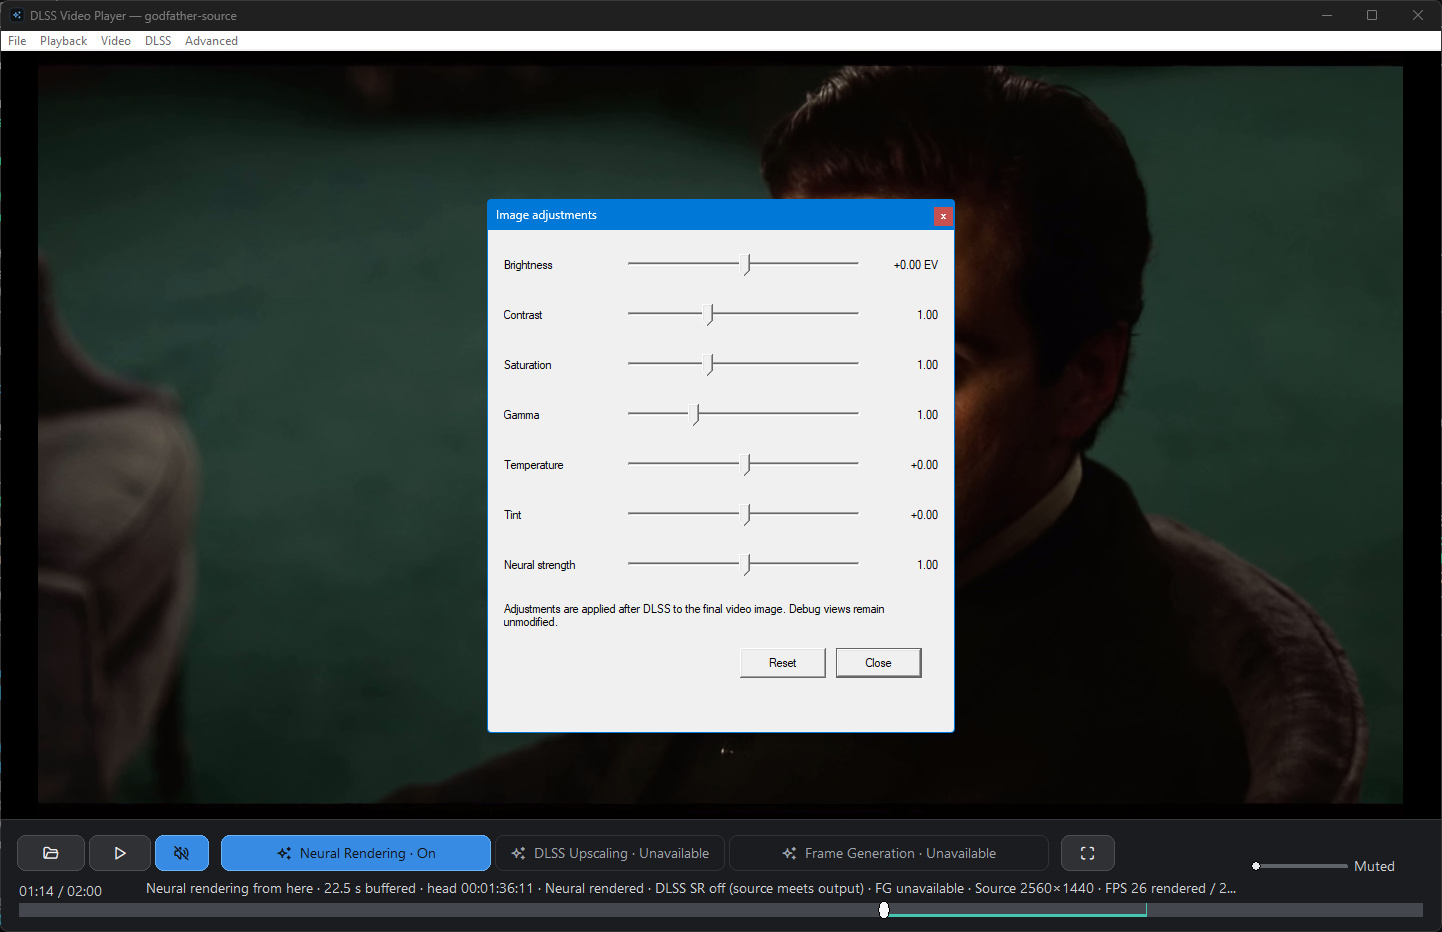
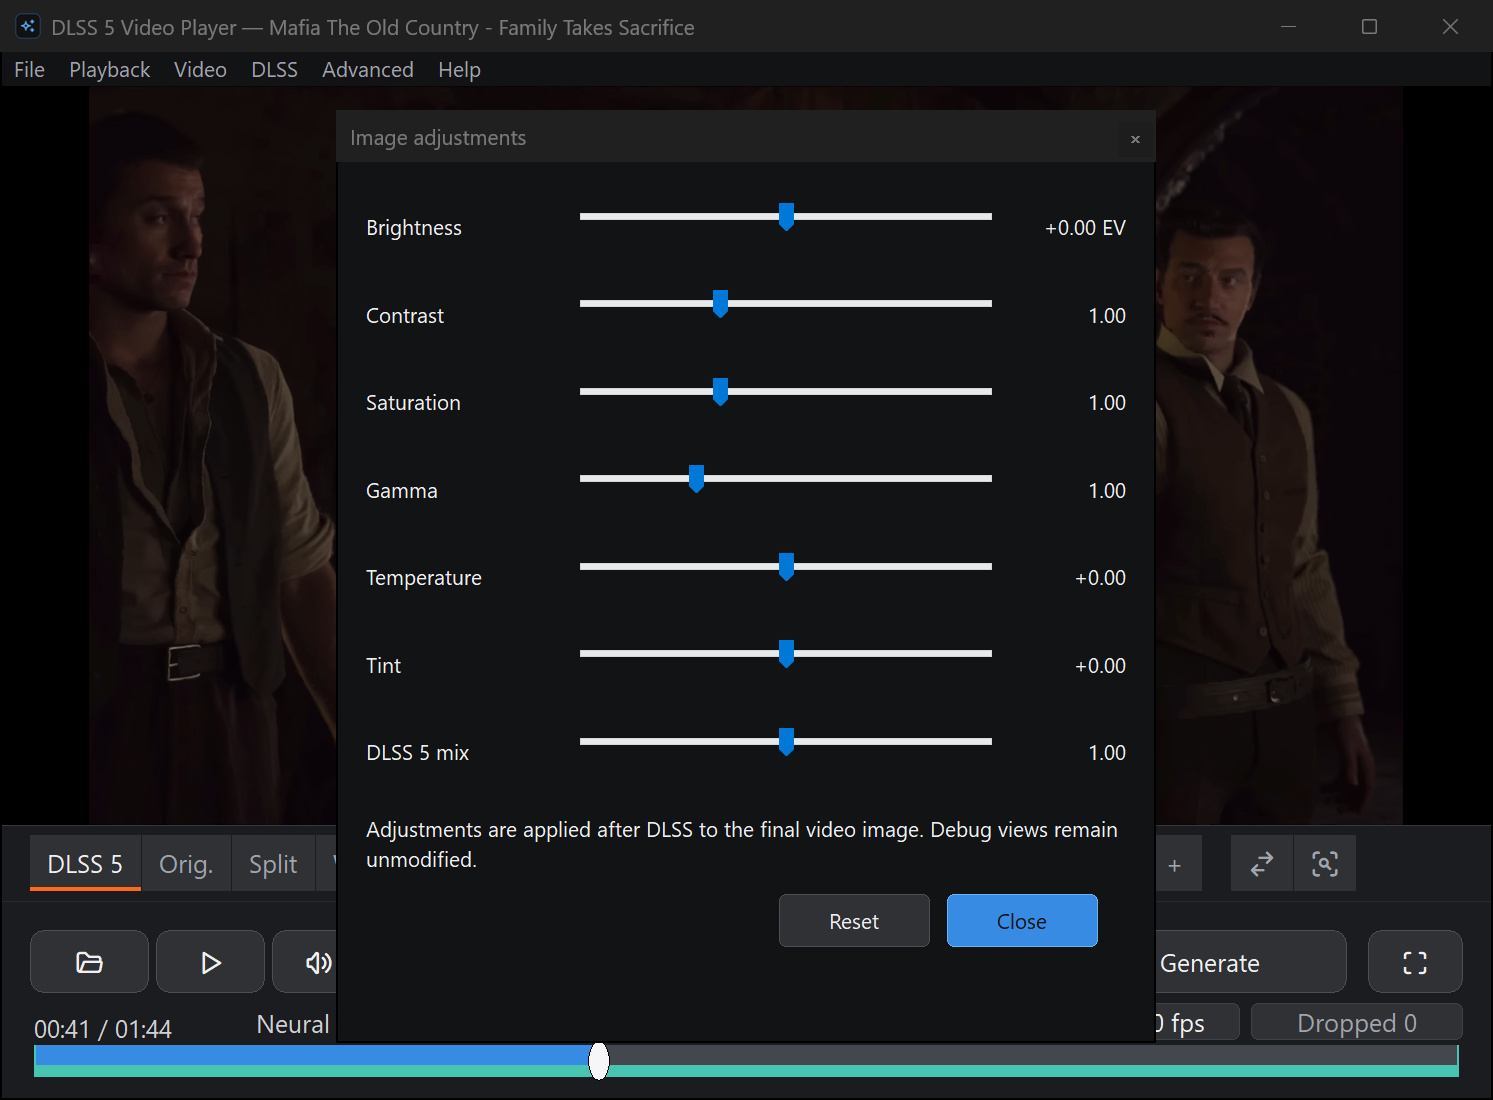
docs: re-shoot the menu, mix and start screenshots; name the product DLSS 5
The last P1.23 items. recent-videos.jpg and neural-strength.jpg showed the
v0.13/v0.21 UI (Upcoming games, Export cached video, a light dialog, Neural
strength); they are re-shot on the current UI over a paused neural frame of
the Mafia trailer, with provenance in docs/screenshots/README.md (window
captures by handle, popups placed at their real offset, 1493 px wide: the
minimum at 175%). player-start.jpg is re-shot too, since the start screen
changed. The version resource's FileDescription and ProductName become
"DLSS 5 Video Player", with both packaging checks; release notes and
PRODUCT.md point at ARCHITECTURE.md's measurements, not the changelog.

Verified: rebuilt exe reports ProductName "DLSS 5 Video Player";
package_release.ps1 -PublicCore built and verified the core zip (23 files,
stage and zip) in a scratch copy under C:\t\w3-ui\pkg; site/test.ps1 39/39
Closes P1.23 (docs/IMPROVEMENT-TASKS.md)

diff --git a/site/src/index.html b/site/src/index.html
@@ -380,9 +380,9 @@
       </p>
     </div>
     <figure class="beat__figure">
-      <img src="media/neural-strength.jpg" width="1442" height="932" loading="lazy" decoding="async"
-           alt="The image adjustments window open over a frame, showing the Neural strength dial.">
-      <figcaption>Neural strength, at its 1.00 default<span class="beat__tick">image adjustments over a paused frame · captured on v0.21.0</span></figcaption>
+      <img src="media/neural-strength.jpg" width="1493" height="1100" loading="lazy" decoding="async"
+           alt="The image adjustments window open over a paused neural frame, showing the DLSS 5 mix slider.">
+      <figcaption>DLSS 5 mix, at its 1.00 default<span class="beat__tick">image adjustments over a paused frame · captured 24 September 2026</span></figcaption>
     </figure>
   </article>
 
@@ -397,9 +397,9 @@
       </p>
     </div>
     <figure class="beat__figure">
-      <img src="media/recent-videos.jpg" width="1442" height="932" loading="lazy" decoding="async"
-           alt="The File menu open on Recent videos, with Export cached video beneath it.">
-      <figcaption>Recent videos reopens a film with its render already attached<span class="beat__tick">File menu · captured 3 September 2026 · history submenu closed, no local paths in frame</span></figcaption>
+      <img src="media/recent-videos.jpg" width="1493" height="932" loading="lazy" decoding="async"
+           alt="The File menu open, with Game trailers, Recent videos and Save comparison image, over a paused neural frame.">
+      <figcaption>Recent videos reopens a film with its render already attached<span class="beat__tick">File menu · captured 24 September 2026 · history submenu closed, no local paths in frame</span></figcaption>
     </figure>
   </article>
 </section>

diff --git a/docs/screenshots/README.md b/docs/screenshots/README.md
@@ -13,9 +13,9 @@ for images that have since been replaced are in the git history of this file.
 | `current/gta6-lucia-original.jpg`, `gta6-lucia-neural.jpg` | That GTA VI frame, whole (2560x1440). The site hero and link card are cut from these | 22 Sep 2026, v0.25.0 |
 | `current/matrix-neural.jpg`, `matrix-original.jpg` | The player paused on Trinity at 1:28, neural view on, then off | 22 Sep 2026, v0.25.0 |
 | `current/neural-playback.jpg`, `original-comparison.jpg` | The player paused on GTA VI at 1:04, neural view on, then off | 22 Sep 2026, v0.25.0 |
-| `current/neural-strength.jpg` | The image adjustments window with the Neural strength dial at 1.00, over a paused Godfather frame | 12 Sep 2026, v0.21.0 |
-| `current/recent-videos.jpg` | The File menu with Recent videos. The history submenu is closed, which keeps local paths out of frame | 3 Sep 2026, v0.13.0 |
-| `current/player-start.jpg` | The start screen | 3 Sep 2026, v0.13.0 |
+| `current/neural-strength.jpg` | The image adjustments window with the DLSS 5 mix slider at 1.00, over a paused neural frame of the Mafia: The Old Country trailer | 24 Sep 2026, v0.25.0+ |
+| `current/recent-videos.jpg` | The File menu (Game trailers, Recent videos, Save comparison image) over the same trailer, paused on a neural frame with the compare bar. The history submenu is closed, which keeps local paths out of frame | 24 Sep 2026, v0.25.0+ |
+| `current/player-start.jpg` | The start screen on a fresh profile: the capability check and the game trailers | 24 Sep 2026, v0.25.0+ |
 | `2026-09-03/face-comparison.png` | The Witcher IV, frame 3375, source beside render. Kept because the 2 September verification report shows it | 3 Sep 2026, v0.13.0 |
 
 ## 22 September 2026 images
@@ -74,17 +74,45 @@ differs by a mean of 9.5 levels and the Matrix pair by 5.2. A wipe taken in the
 same session matched the original left of its divider (0.16) and the render to
 the right (0.0).
 
+## 24 September 2026 images
+
+**Hardware and runtime.** The 22 September machine and runtime (RTX 4080
+SUPER, driver 610.47, RenoDX 6.5.3, DLSS-NR 310.8.0), at 175% display scaling.
+The build is the w3-ui branch after v0.25.0: Common Controls 6, dark popup
+menus, the compare bar and the start screen as they ship next.
+
+**Source.** *Mafia: The Old Country - Family Takes Sacrifice* (Mafia Game), the
+official upload in the player's trailer list, 2560x1440 at 30 fps, opened as a
+local copy of the player's cached source. Neural rendering was turned on at
+0:00, the video played and was paused at 0:21 (the menu) and 0:41 (the
+adjustments window), both inside the rendered range with the neural view on.
+Default neural settings.
+
+**Captures.** Every window was captured by handle with `PrintWindow` and cut to
+its visible frame (DWM's extended frame bounds), as
+`tools/verification/capture-window.ps1` does, because the workstation was
+locked and the screen itself could not be read. A popup is its own window, so
+`recent-videos.jpg` and `neural-strength.jpg` are each two such captures - the
+player, and the open File menu or the adjustments window - with the second
+placed at its real on-screen offset from the first. Nothing else is added or
+changed. Saved once as JPEG at quality 95 with no chroma subsampling.
+
+**Size.** 1493x932 (`recent-videos.jpg`, `player-start.jpg`) and 1493x1100
+(`neural-strength.jpg`). The older shots were 1442x932 at 100%; at 175% the
+player's minimum width is 1493 visible pixels, and the adjustments window
+(933 pixels tall at that scale) needed a taller player to sit over.
+
 ## Earlier images
 
-**12 September 2026** (`neural-strength.jpg`). v0.21.0 on an RTX 5090, driver
-616.64, RenoDX 4.7. The frame is *The Godfather 50th Anniversary Trailer*
-(Paramount Pictures) paused at 73.98 s, from a live session that verified
-2,875 of 2,875 frames. The window's visible frame (1442x932), JPEG quality 95,
-no chroma subsampling.
+**12 September 2026** (the previous `neural-strength.jpg`, in this file's
+history). v0.21.0 on an RTX 5090, driver 616.64, RenoDX 4.7. The frame is
+*The Godfather 50th Anniversary Trailer* (Paramount Pictures) paused at
+73.98 s, from a live session that verified 2,875 of 2,875 frames. The window's
+visible frame (1442x932), JPEG quality 95, no chroma subsampling.
 
-**3 September 2026** (`recent-videos.jpg`, `player-start.jpg`,
-`2026-09-03/face-comparison.png`). v0.13.0 on an RTX 5090, full 1442x932
-windows captured with FFmpeg. The face comparison uses *The Witcher IV* Cinematic
+**3 September 2026** (`2026-09-03/face-comparison.png`, and the previous
+`recent-videos.jpg` and `player-start.jpg`). v0.13.0 on an RTX 5090, full
+1442x932 windows captured with FFmpeg. The face comparison uses *The Witcher IV* Cinematic
 Reveal Trailer (CD PROJEKT RED), 1920x1080 at 30000/1001 fps, zero-based frame
 3375 (112.6 s). Both 700x880 crops are at x=670, y=0 from the source and its
 fully verified render (10,868 of 10,868 frames).
@@ -94,6 +122,6 @@ fully verified render (10,868 of 10,868 frames).
 These images document the software. They are not an image-quality benchmark,
 an official NVIDIA integration, or an endorsement by anyone shown. Footage
 belongs to its owners: The Matrix to Warner Bros., Grand Theft Auto VI to
-Rockstar Games, The Godfather to Paramount Pictures and The Witcher IV to CD
-PROJEKT RED. NVIDIA components belong to NVIDIA. The source-code licence
+Rockstar Games, The Godfather to Paramount Pictures, The Witcher IV to CD
+PROJEKT RED and Mafia: The Old Country to 2K and Hangar 13. NVIDIA components belong to NVIDIA. The source-code licence
 doesn't relicense any of it.

diff --git a/docs/IMPROVEMENT-TASKS.md b/docs/IMPROVEMENT-TASKS.md
@@ -53,7 +53,6 @@ fetchable), 175 s. `site/test.ps1`: 31 pass.
 | --- | --- | :---: | --- | :---: |
 | **P0** | | | | |
 | **P1** | | | | |
-| [P1.23](#p123) | Screenshots and the last product-name drift | S | Docs, Release | 🔍 |
 | **P2** | | | | |
 | [P2.1](#p21) | Supply a smoothed exposure instead of auto-exposure | S | Pipeline | ✅ |
 | [P2.2](#p22) | Dither wherever the image is cut to 8 bits | S | Pipeline, Player | ✅ |
@@ -88,45 +87,6 @@ fetchable), 175 s. `site/test.ps1`: 31 pass.
 
 ## Docs and site
 
-<a id="p123"></a>
-### P1.23 · Screenshots and the last product-name drift
-
-`S` · **Docs, Release** · 🔍
-
-The positioning, titles, related-projects page and changelog were fixed.
-What is left:
-
-| Item | Where | Fix |
-| --- | --- | --- |
-| Screenshots show the old menus ("Upcoming games", File > Export cached video) and a v0.21.0 capture | `docs/screenshots/current/recent-videos.jpg`, `neural-strength.jpg`; site "How it works" | Re-shoot with the current UI (needs the GUI) |
-| The version resource still names "DLSS Video Player", and two packaging scripts check for that exact name | `src/resources.rc`, `tools/package_release.ps1`, `tools/verify_package.ps1` | Rename all three together |
-| Readers are sent to the changelog for measurements it no longer carries | `tools/release_notes.ps1:94`, `PRODUCT.md` | Point them at `docs/ARCHITECTURE.md` ("Decisions and the measurements behind them") |
-
---- | --- | --- |
-| Says `NvencPreset` defaults to 7; the player's default is 5 (`NeuralCache.h:139`). The helper's fallback of 7 is a deliberate wire contract | `docs/USAGE.md:281` | Say 5 |
-| Screenshots show the old menus ("Upcoming games", File > Export cached video) and a v0.21.0 capture, while the README says they show "screens that haven't changed" | `docs/screenshots/current/recent-videos.jpg`, `neural-strength.jpg`; site "How it works" | Re-shoot |
-| The site's `<title>`, `og:title` and `twitter:title` lead with "AI video upscaling", which is commoditised and not what the product does by default | `site/src/index.html:16`, `:24` | Lead with neural rendering and the same-frame comparison |
-| The window title and error boxes read "DLSS Video Player" | `Localization.h:20` (`app.title`), `main.cpp:948`, `:7818` | "DLSS 5 Video Player" |
-| The related-projects page is three weeks stale and says so. It also ships in both packages while pointing at this file, which is not packaged | `docs/RELATED_PROJECTS.md` | Rewrite it against the landscape below. Narrow the claim to: *the only one that renders the whole video progressively, keeps every frame, and shows the original and the render on the same frame while it is still rendering*. Lead with verifiability. Stop implying frame generation is part of live playback |
-| The changelog is 189 KB (0.24.0 alone is 50 KB) and ships in the zips | `CHANGELOG.md` | Keep user-visible bullets; move the rationale into commits or `ARCHITECTURE.md` |
-| Stale counts: "ten tests" (there are 13), "twenty executables" | `gpu-tests.yml:5`, `CMakeLists.txt:46` | Update them |
-
-**Landscape since 2026-09-01, for the rewrite.**
-- **NVIDIA:** DLSS 5 shipped officially on 2026-09-03 (driver 616.64, RTX 50
-  only, one game), with RTX 40 support promised "later this fall" and no
-  public SDK yet.
-- **Merserk Visual Enhancer:** v2.1 → v11. It now has frame generation,
-  10-bit HDR, RTX VSR, a Live mode, masks, shimmer suppression, a 2-Up view,
-  and ProRes and FFV1 export.
-- **NeuralScreen:** about 944★.
-- **video2dlssnr:** GPU-resident pipeline.
-- **dlss5-nr-player and its forks:** split and wipe views plus VSR.
-- **A fork of this project:** ctype-lab.
-- **ComfyUI packs:** new ones, including one with an automatic skin mask.
-- **OptiScaler-DLSSNR:** issue #100 shows it failing on an offscreen DLAA
-  harness like this one. RenoDX is still the only runtime known to work here.
-
----
 ---
 
 # P2 — High-value features

diff --git a/README.md b/README.md
@@ -154,11 +154,11 @@ trailer list is in [EXAMPLE_VIDEOS.md](docs/EXAMPLE_VIDEOS.md).
 
 ## Screenshots
 
-Real captures of the app. The two paused pairs are v0.25.0 on an RTX 4080
-SUPER; the menu, neural-strength and start-screen shots are older captures of
-screens that haven't changed. Click any image for full size.
+Real captures of the app, all on an RTX 4080 SUPER: the two paused pairs are
+v0.25.0, and the menu, DLSS 5 mix and start-screen shots are this branch's UI.
+Click any image for full size.
 
-![File menu with Recent videos and the cached-video export command](docs/screenshots/current/recent-videos.jpg)
+![File menu with Game trailers, Recent videos and Save comparison image, over a paused neural frame with the compare bar](docs/screenshots/current/recent-videos.jpg)
 
 ### Same frame, original and neural
 
@@ -176,9 +176,9 @@ promise that every source gains detail.
 
 ![GTA VI Trailer 2, one frame of Lucia: the source on the left, the same frame from the player's render on the right, identical unscaled 700x880 crops](docs/screenshots/current/face-comparison-gta6.png)
 
-### Neural strength dial
+### DLSS 5 mix
 
-![The image adjustments window with the Neural strength slider over a paused neural frame](docs/screenshots/current/neural-strength.jpg)
+![The image adjustments window with the DLSS 5 mix slider over a paused neural frame](docs/screenshots/current/neural-strength.jpg)
 
 `Ctrl+E`, last slider. 0 % is the original, 100 % the model's result, and
 200 % pushes the change further. It blends the frame already on screen, so it
@@ -186,7 +186,7 @@ never triggers a new render.
 
 ### Start screen
 
-![Start screen with local file and YouTube URL actions](docs/screenshots/current/player-start.jpg)
+![Start screen: the capability check, the Open file and Open YouTube URL actions, and a row of game trailers](docs/screenshots/current/player-start.jpg)
 
 [Capture details and footage attribution](docs/screenshots/README.md).
 

diff --git a/PRODUCT.md b/PRODUCT.md
@@ -98,7 +98,8 @@ Real, in the repository, usable without fabrication:
   and the player's render of it; `gta6-lucia-original.jpg` / `-neural.jpg`, the
   full frames behind the site hero.
 - `docs/screenshots/current/neural-strength.jpg`, `recent-videos.jpg`,
-  `player-start.jpg` (older UI captures).
+  `player-start.jpg` (the current UI: the image adjustments window, the File
+  menu and the start screen).
 - `docs/media/neural-comparison-demo.mp4` (19.7 s, 1080p) with poster and WebP
   preview; `site/src/assets/hero/social-card.jpg` (1200x630 link preview).
 - Release telemetry, read live on 2026-09-18: 4,959 zip downloads across 17
@@ -108,7 +109,8 @@ Real, in the repository, usable without fabrication:
 
 Absent, and not to be invented: testimonials, named users, press coverage,
 pricing, benchmark claims beyond the measured numbers already published in
-CHANGELOG.md and the verification documents.
+`docs/ARCHITECTURE.md` ("Decisions and the measurements behind them") and the
+verification documents.
 
 The screenshots are frames of official trailers (The Matrix, GTA VI Trailer 2;
 older UI shots show The Godfather and The Witcher IV). Provenance is documented; the usage matches what the
